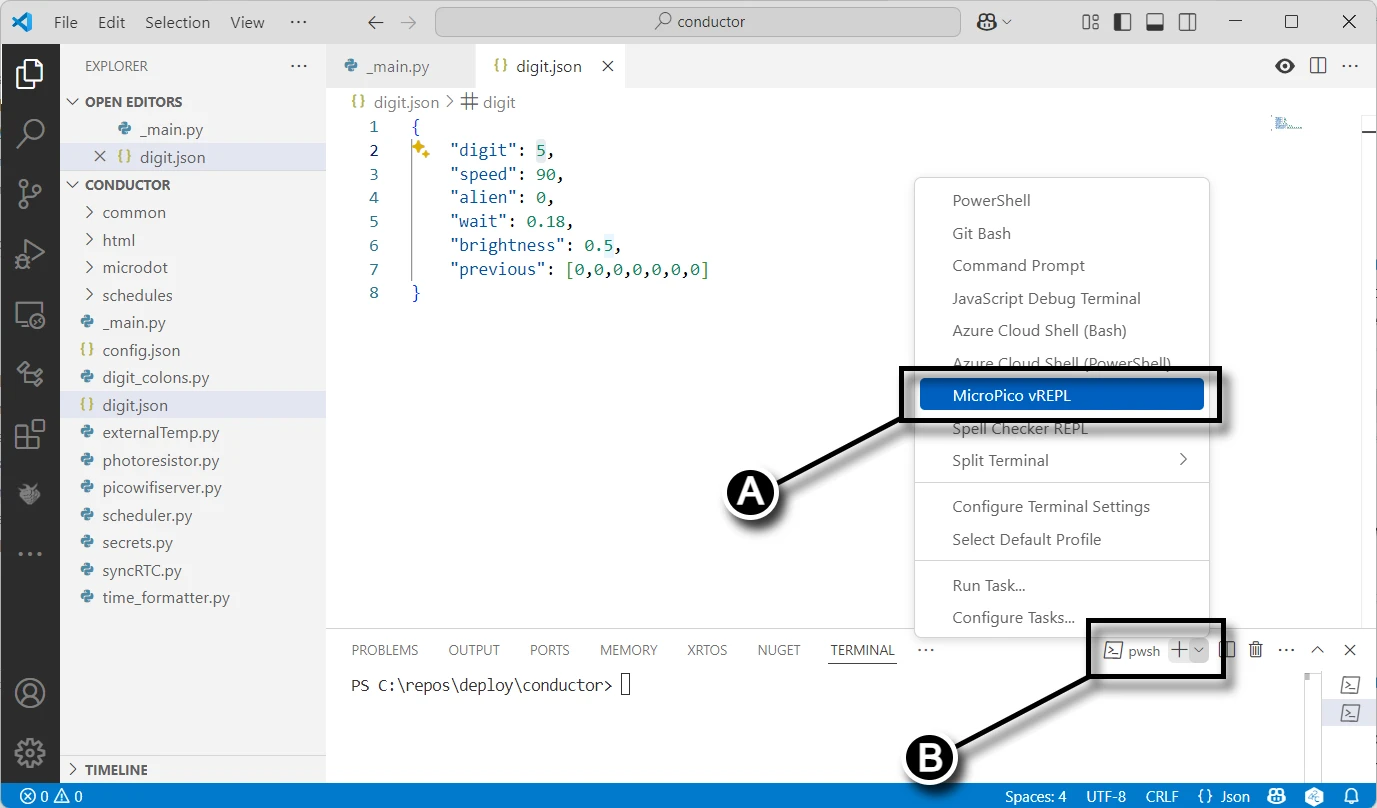
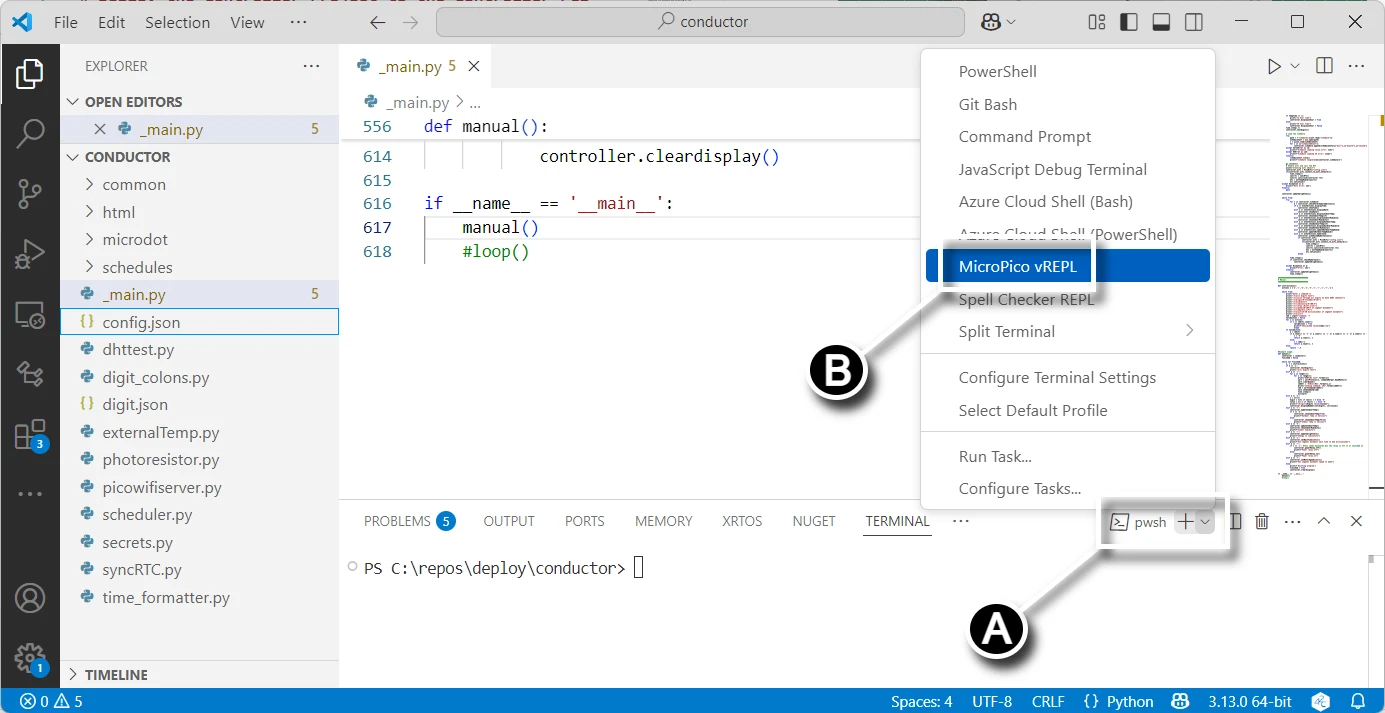
fixed deploy controller to be consistent with later docs

diff --git a/docs/assembly/deploycontrollerproject.md b/docs/assembly/deploycontrollerproject.md
@@ -11,17 +11,17 @@ In this section you will upload code to your Raspberry Pi Pico W 2040 from your 
 ## Configure and Deploy the Controller Project
 
 1. Connect your Computer to the controller PCB Pico W 2040 per the instructions on [Verify Micropython on your Raspberry Pi Pico](../prerequisitesoftware.md)
-2. Following the screen capture below from VS Code, select **(A)** **File->Open Folder...**, **(B)** open the **deploy/conductor** folder you deployed during step 4 in the section [Fork and Clone the Repository](../prerequisitesoftware.md), then **(C)** click the "Select Folder" button.
+1. Following the screen capture below from VS Code, select **(A)** **File->Open Folder...**, **(B)** open the **deploy/conductor** folder you deployed during step 4 in the section [Fork and Clone the Repository](../prerequisitesoftware.md), then **(C)** click the "Select Folder" button.
 ![deploycontrollercode-1.webp](../img/deploycontrollercode/deploycontrollercode-1.webp)
-3. Following the screen capture below, select the Explorer icon (**A**) in the left [Activity bar](https://code.visualstudio.com/docs/getstarted/userinterface#_basic-layout). Click the digit.json file (**B**) in the Explorer pane. Change the **"digit":** value (**C**) to **4**. Don't forget to save the file after changing the value.
+1. Following the screen capture below, **(A)** select the `main.py` file, **(B)** then comment out the call to the `loop()` function, and uncomment the `manual()` function. Finally, rename the `main.py` file to `_main.py`. Don't forget to save the file after changing the value.
 ![deploycontrollercode-2](../img/deploycontrollercode/deploycontrollercode-2.webp)
-4. Following the screen capture below, create a new terminal by **(A) clicking the elipse ...**, then **(B) Terminal->New Terminal** submenu.
+1. Following the screen capture below, create a new terminal by **(A) clicking the elipse ...**, then **(B) Terminal->New Terminal** submenu.
 ![deploycontrollercode-3](../img/deploycontrollercode/deploycontrollercode-3.webp)
-5. Following the picture below, connect your computer's USB port to the Raspberry Pi Pico W 2040.
+1. Following the picture below, connect your computer's USB port to the Raspberry Pi Pico W 2040.
 ![deploycontrollercode-4](../img/deploycontrollercode/deploycontrollercode-4.webp)
-6. Following the screen capture below, **(A) select the drop-down menu** in the terminal pane, then **(B) click the MicroPico vREPL submenu** item.
+1. Following the screen capture below, **(A) select the drop-down menu** in the terminal pane, then **(B) click the MicroPico vREPL submenu** item.
 ![deploycontrollercode-5](../img/deploycontrollercode/deploycontrollercode-5.webp)
-7. Following the screen capture below, click **All Commands** (**A**) on the [status bar](https://code.visualstudio.com/api/ux-guidelines/status-bar). In the Command text field (**B**), type "**Upload**" after "**> MicroPico:** ", then select the dropdown **MicroPico: Upload project to Pico**.
+1. Following the screen capture below, click **All Commands** (**A**) on the [status bar](https://code.visualstudio.com/api/ux-guidelines/status-bar). In the Command text field (**B**), type "**Upload**" after "**> MicroPico:** ", then select the dropdown **MicroPico: Upload project to Pico**.
 ![deploycontrollercode-6](../img/deploycontrollercode/deploycontrollercode-6.webp)
 
 Congratulations on successfully uploading the code to the Digit's Raspberry Pi Pico W!
